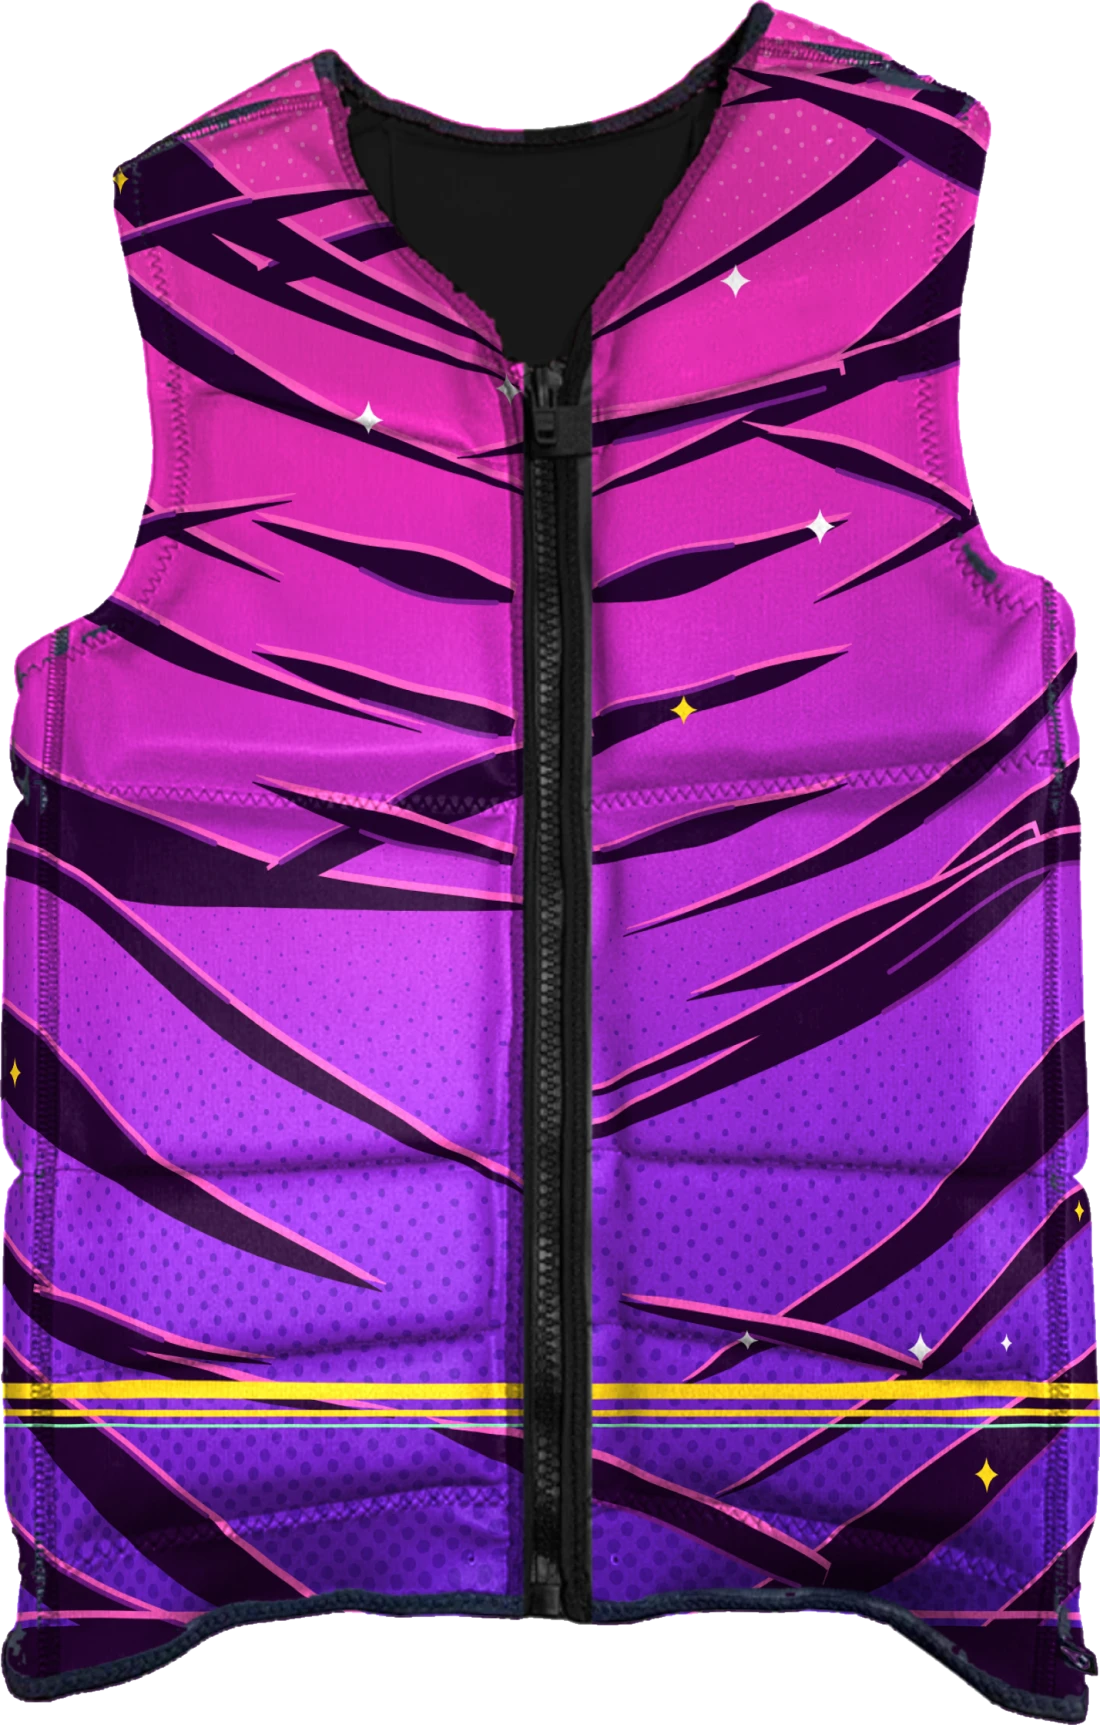
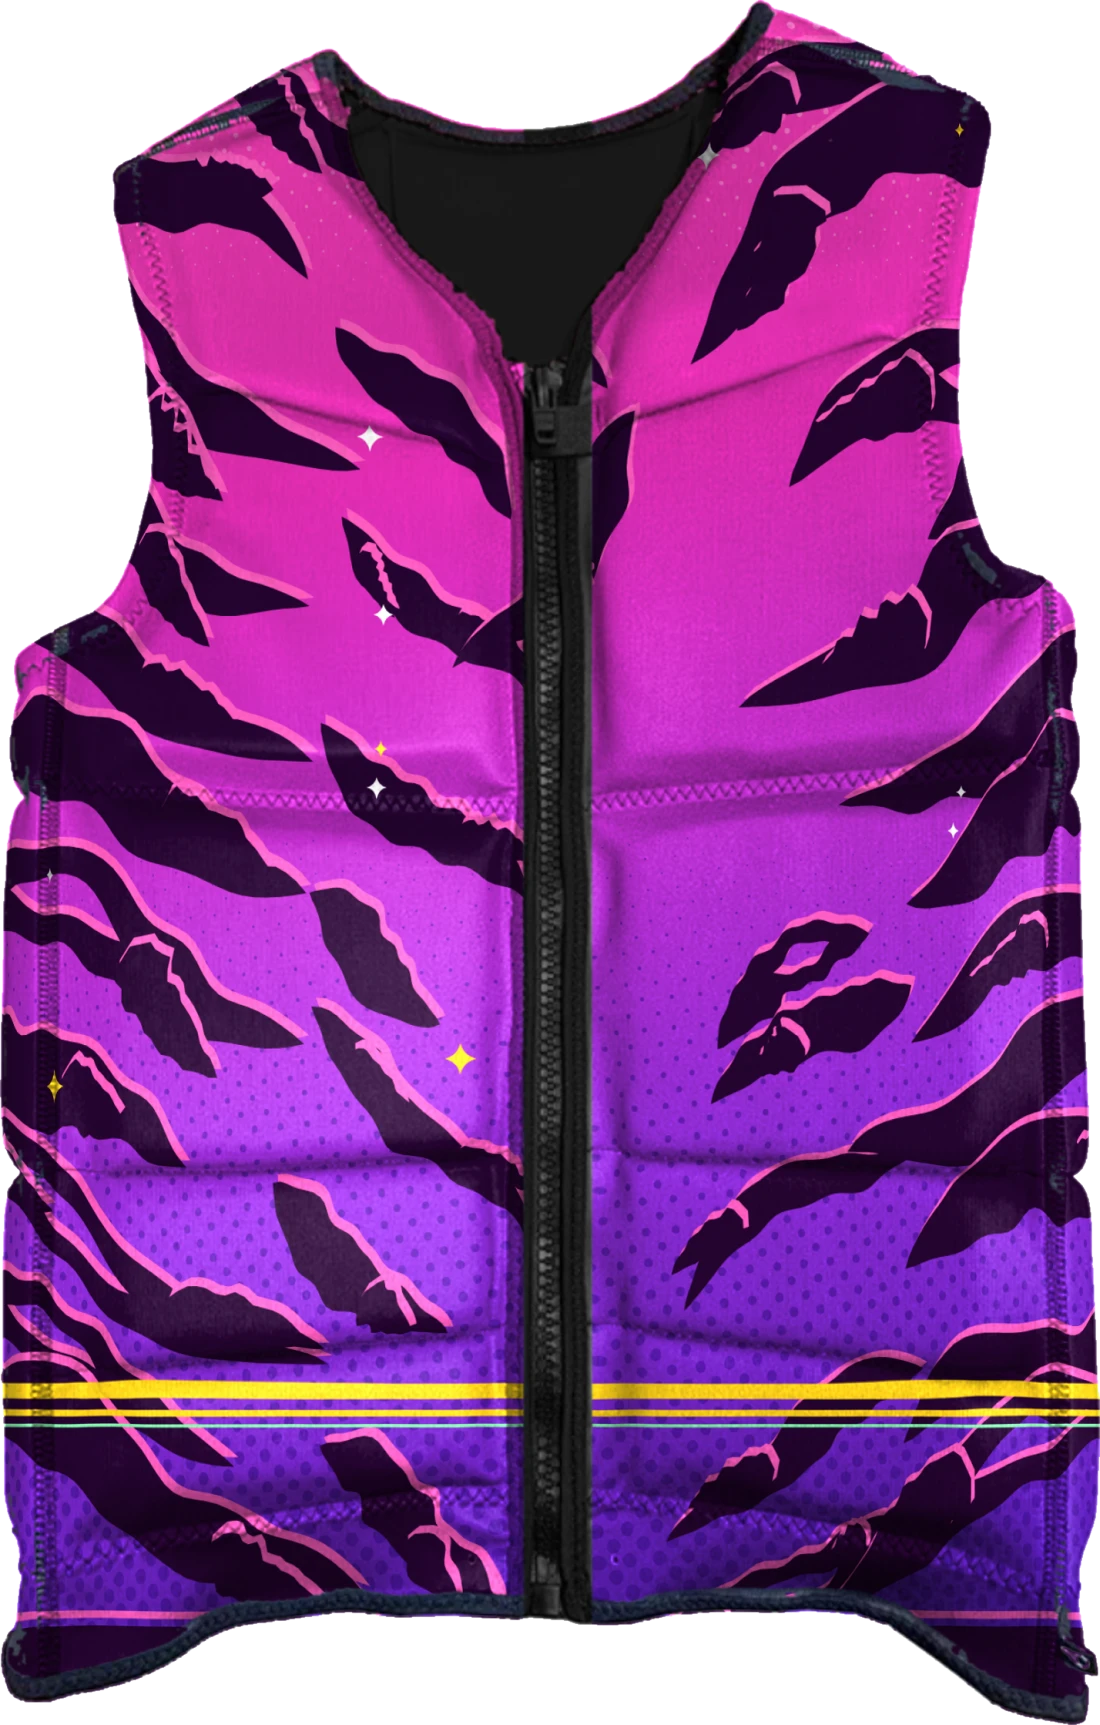
Tiger Fade: redraw stripes as a real tiger coat
Claude-Session: https://claude.ai/code/session_01Fy5H5rMUZMXc2kKTw5zMks

diff --git a/config.js b/config.js
@@ -2,7 +2,7 @@
 // The logo artwork is in /brand (swap those SVG/PNG files if the name changes).
 window.SITE = {
   // Bump this whenever you replace a vest image (same filename) so browsers fetch the new one
-  imgVersion: 7,
+  imgVersion: 8,
 
   brand: {
     name: "Stinger",
